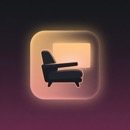
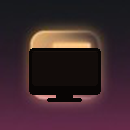
HUD: count L/R/U/D/OK keydowns to confirm whether arrow keys reach the page after a launch

Changed region(s): [[0.2154, 0.3385, 0.8, 0.8], [0.2769, 0.2462, 0.3077, 0.2769], [0.2462, 0.2769, 0.2769, 0.3077]]

diff --git a/src/js/debug-hud.js b/src/js/debug-hud.js
@@ -40,7 +40,14 @@ export function createDebugHud() {
     lastClickAt: 0,
     lastClickTarget: '-',
     fgApp: '-',
-    fgAt: 0
+    fgAt: 0,
+    // Per-direction keydown counters. If LEFT/RIGHT stay 0 while ENTER climbs,
+    // the platform is eating arrow keys (Magic Remote pointer mode), not us.
+    cL: 0,
+    cR: 0,
+    cU: 0,
+    cD: 0,
+    cE: 0
   };
 
   function ago(ts) {
@@ -62,6 +69,13 @@ export function createDebugHud() {
     state.lastKeyCode = e.keyCode;
     state.lastKeyName = e.key || '-';
     state.lastKeyAt = Date.now();
+    const c = e.keyCode;
+    const k = e.key;
+    if (c === 37 || k === 'ArrowLeft') state.cL += 1;
+    else if (c === 39 || k === 'ArrowRight') state.cR += 1;
+    else if (c === 38 || k === 'ArrowUp') state.cU += 1;
+    else if (c === 40 || k === 'ArrowDown') state.cD += 1;
+    else if (c === 13 || k === 'Enter') state.cE += 1;
   }, true);
 
   document.addEventListener('mousemove', function () {
@@ -80,6 +94,7 @@ export function createDebugHud() {
       'vis=' + document.visibilityState + ' hidden=' + document.hidden,
       'active=' + describe(document.activeElement),
       'key=' + state.lastKeyCode + '/' + state.lastKeyName + ' (' + ago(state.lastKeyAt) + ' ago)',
+      'keys L=' + state.cL + ' R=' + state.cR + ' U=' + state.cU + ' D=' + state.cD + ' OK=' + state.cE,
       'ptr=' + ago(state.lastPtrAt) + ' ago',
       'click=' + state.lastClickTarget + ' (' + ago(state.lastClickAt) + ' ago)',
       'fgApp=' + state.fgApp + ' (' + ago(state.fgAt) + ' ago)'

diff --git a/scripts/generate-icons.py b/scripts/generate-icons.py
@@ -1,0 +1,100 @@
+#!/usr/bin/env python3
+"""Generate Lounge launcher icons with a TV in front of the lounge chair."""
+
+from pathlib import Path
+
+from PIL import Image, ImageDraw
+
+ROOT = Path(__file__).resolve().parents[1]
+ASSETS = ROOT / "assets"
+SOURCE = ASSETS / "icon-source.png"
+
+
+def make_icon(size: int) -> Image.Image:
+    scale = size / 80.0
+    base = Image.open(SOURCE).convert("RGBA").resize((size, size), Image.Resampling.LANCZOS)
+
+    overlay = Image.new("RGBA", (size, size), (0, 0, 0, 0))
+    draw = ImageDraw.Draw(overlay)
+
+    tv_left = int(18 * scale)
+    tv_top = int(30 * scale)
+    tv_right = int(62 * scale)
+    tv_bottom = int(58 * scale)
+    bezel = max(1, int(2 * scale))
+    stand_w = int(10 * scale)
+    stand_h = max(1, int(3 * scale))
+    base_w = int(22 * scale)
+    base_h = max(1, int(2 * scale))
+
+    tv_color = (8, 5, 4, 255)
+    screen_color = (18, 12, 10, 255)
+
+    draw.rounded_rectangle(
+        [tv_left, tv_top, tv_right, tv_bottom],
+        radius=max(2, int(3 * scale)),
+        fill=tv_color,
+    )
+    draw.rounded_rectangle(
+        [
+            tv_left + bezel,
+            tv_top + bezel,
+            tv_right - bezel,
+            tv_bottom - bezel - int(4 * scale),
+        ],
+        radius=max(1, int(2 * scale)),
+        fill=screen_color,
+    )
+
+    cx = (tv_left + tv_right) // 2
+    draw.rounded_rectangle(
+        [
+            cx - stand_w // 2,
+            tv_bottom - int(2 * scale),
+            cx + stand_w // 2,
+            tv_bottom + stand_h,
+        ],
+        radius=max(1, int(1 * scale)),
+        fill=tv_color,
+    )
+    draw.rounded_rectangle(
+        [
+            cx - base_w // 2,
+            tv_bottom + stand_h,
+            cx + base_w // 2,
+            tv_bottom + stand_h + base_h,
+        ],
+        radius=max(1, int(1 * scale)),
+        fill=tv_color,
+    )
+
+    highlight = Image.new("RGBA", (size, size), (0, 0, 0, 0))
+    hd = ImageDraw.Draw(highlight)
+    hd.line(
+        [(tv_left + bezel, tv_top + bezel), (tv_right - bezel, tv_top + bezel)],
+        fill=(40, 28, 22, 90),
+        width=max(1, int(1 * scale)),
+    )
+
+    result = Image.alpha_composite(base, overlay)
+    result = Image.alpha_composite(result, highlight)
+    return result.convert("RGB")
+
+
+def render(name: str, size: int) -> None:
+    output = ASSETS / name
+    make_icon(size).save(output)
+    print(f"Wrote {output} ({size}x{size})")
+
+
+def main() -> None:
+    if not SOURCE.exists():
+        raise SystemExit(f"Missing source icon: {SOURCE}")
+
+    render("icon.png", 80)
+    render("icon-mini.png", 60)
+    render("icon-large.png", 130)
+
+
+if __name__ == "__main__":
+    main()